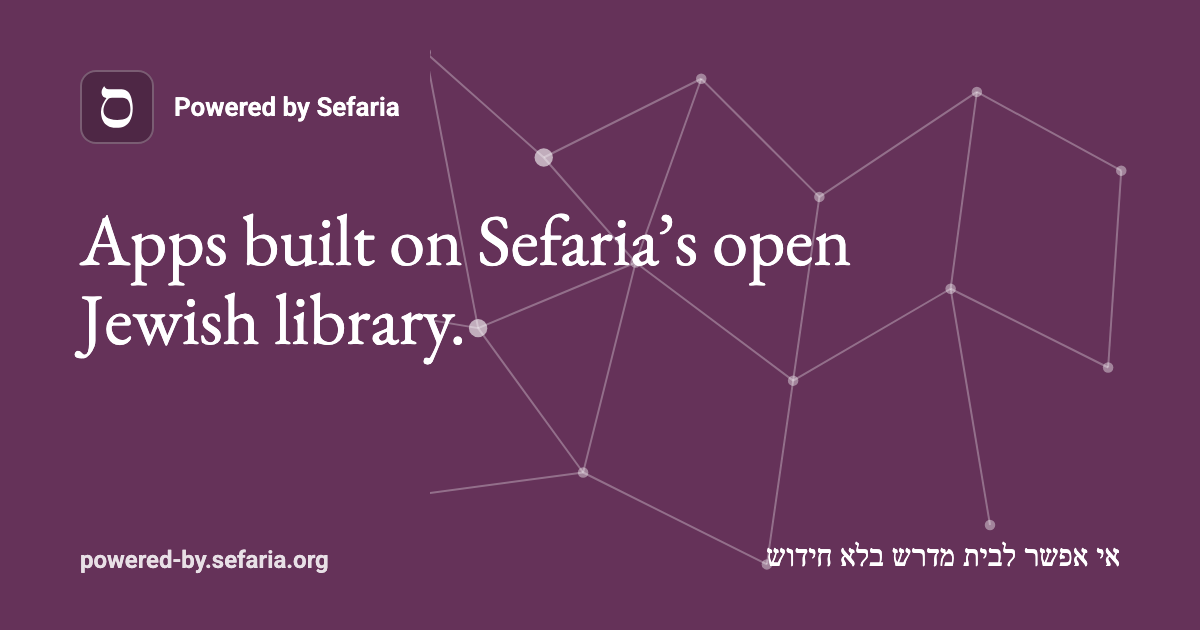
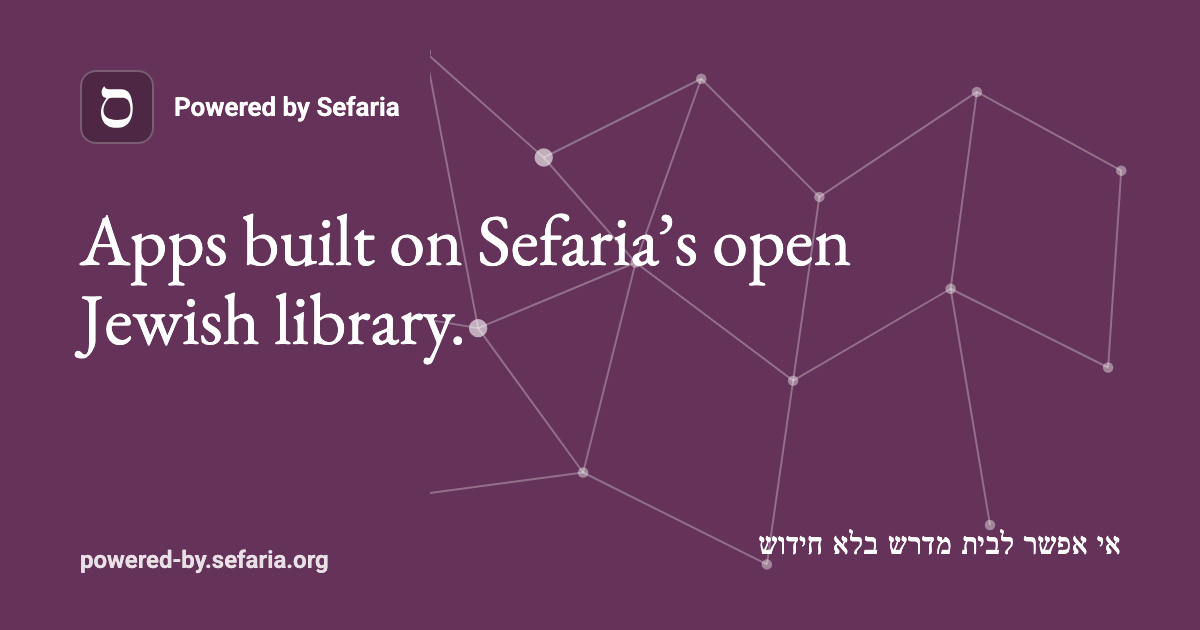
fix: address second Copilot review on the project-pages PR
- count a project page view once, after its slug is canonical (not for /projects/141
  and again for /projects/141-name)
- treat /Charts and /CHARTS like /charts, as the router does, so they are never counted
- stop the featured card's "Made with" tag from swallowing clicks (clip-path stacking context)
- embed the Hebrew font in the OG image script as a data URL; regenerate og-image.png
- e2e: scroll instantly, so smooth scrolling can't race the geometry assertions

Tests added for each; the featured-card click test fails without the CSS fix.

Changed region(s): [[0.6167, 0.8444, 0.9558, 0.9048]]

diff --git a/src/app/__tests__/RouteEffects.test.tsx b/src/app/__tests__/RouteEffects.test.tsx
@@ -1,0 +1,77 @@
+import { render, screen } from '@testing-library/react'
+import { MemoryRouter, Route, Routes } from 'react-router'
+import { afterEach, beforeEach, describe, expect, it, vi } from 'vitest'
+import { resetProjectsCache } from '../../hooks/useProjects'
+import { initAnalytics, resetAnalytics } from '../../lib/analytics'
+import { makeRaw } from '../../test/factories'
+import { ProjectPage } from '../../features/project-page/ProjectPage'
+import { RouteEffects } from '../RouteEffects'
+
+const plausible = vi.fn()
+const pageviews = () => plausible.mock.calls.filter(([event]) => event === 'pageview')
+
+function renderAt(path: string) {
+  return render(
+    <MemoryRouter initialEntries={[path]}>
+      <Routes>
+        <Route path="/" element={<p>Browse page</p>} />
+        <Route path="/charts" element={<p>Charts page</p>} />
+        <Route path="/projects/:slug" element={<ProjectPage />} />
+      </Routes>
+      <RouteEffects />
+    </MemoryRouter>,
+  )
+}
+
+beforeEach(() => {
+  resetProjectsCache()
+  vi.stubEnv('VITE_ANALYTICS_DOMAIN', 'powered-by.sefaria.org')
+  resetAnalytics()
+  plausible.mockReset()
+  window.plausible = plausible
+  initAnalytics()
+  vi.stubGlobal(
+    'fetch',
+    vi
+      .fn()
+      .mockImplementation(() =>
+        Promise.resolve(
+          new Response(
+            JSON.stringify({ projects: [makeRaw({ id: 141, project_name: 'Torah MCP' })] }),
+          ),
+        ),
+      ),
+  )
+})
+
+afterEach(() => {
+  vi.unstubAllEnvs()
+  vi.unstubAllGlobals()
+  resetAnalytics()
+  delete window.plausible
+  document.head.querySelectorAll('script[data-domain]').forEach((s) => s.remove())
+})
+
+describe('page views', () => {
+  it('counts the browse page once, and never the charts page, whatever its case', async () => {
+    renderAt('/')
+    expect(await screen.findByText('Browse page')).toBeInTheDocument()
+    expect(pageviews()).toHaveLength(1)
+    plausible.mockReset()
+    renderAt('/charts')
+    await screen.findByText('Charts page')
+    expect(pageviews()).toHaveLength(0)
+  })
+
+  it('counts a project page once, not before its slug is canonical', async () => {
+    renderAt('/projects/141')
+    expect(await screen.findByRole('heading', { level: 1, name: 'Torah MCP' })).toBeInTheDocument()
+    expect(pageviews()).toHaveLength(1)
+  })
+
+  it('counts a stale slug once, only after it has been replaced', async () => {
+    renderAt('/projects/141-an-old-name')
+    expect(await screen.findByRole('heading', { level: 1, name: 'Torah MCP' })).toBeInTheDocument()
+    expect(pageviews()).toHaveLength(1)
+  })
+})

diff --git a/e2e/project-page.spec.ts b/e2e/project-page.spec.ts
@@ -60,7 +60,7 @@ for (const { width, layout } of WIDTHS) {
         expect(panelBox!.x).toBeGreaterThan(width / 2)
         expect(panelBox!.width).toBeCloseTo(360, 0)
         expect(openBox!.height).toBeCloseTo(52, 0)
-        await page.evaluate(() => window.scrollTo(0, 300))
+        await page.evaluate(() => window.scrollTo({ top: 300, behavior: 'instant' }))
         // still in view after scrolling: it follows the page
         const after = await panel.boundingBox()
         expect(after!.y).toBeCloseTo(24, 0)
@@ -90,7 +90,9 @@ for (const { width, layout } of WIDTHS) {
       test('the bottom bar never covers the last of the details', async ({ page }) => {
         await page.goto(`/projects/${PROJECTS.torahMcp}`)
         await expect(page.getByRole('heading', { level: 1 })).toBeVisible()
-        await page.evaluate(() => window.scrollTo(0, document.body.scrollHeight))
+        await page.evaluate(() =>
+          window.scrollTo({ top: document.body.scrollHeight, behavior: 'instant' }),
+        )
         const details = page.locator('section[aria-labelledby="details-heading"]')
         await expect(details).toBeVisible()
         const [detailsBox, barBox] = [await details.boundingBox(), await cta(page).boundingBox()]

diff --git a/e2e/featured.spec.ts b/e2e/featured.spec.ts
@@ -27,6 +27,20 @@ test.describe('featured band', () => {
     await expect(band(page)).toHaveCount(0)
   })
 
+  test('clicking the "Made with" tag opens the project like the rest of the card', async ({
+    page,
+  }) => {
+    await serveProjects(page, featureThree)
+    await page.goto('/')
+    await waitForProjects(page)
+    // by coordinates, as a person would: the tag itself no longer takes pointer events
+    const label = band(page).getByText('Made with').first()
+    await label.scrollIntoViewIfNeeded()
+    const tag = (await label.boundingBox())!
+    await page.mouse.click(tag.x + tag.width / 2, tag.y + tag.height / 2)
+    await expect(page).toHaveURL(/\/projects\/\d+-/)
+  })
+
   test('shows up to 3 featured projects, newest first, between the hero and browse area', async ({
     page,
   }) => {

diff --git a/src/features/project-page/ProjectPage.tsx b/src/features/project-page/ProjectPage.tsx
@@ -1,5 +1,6 @@
 import { useEffect, useRef } from 'react'
 import { Link, Navigate, useLocation, useNavigationType, useParams } from 'react-router'
+import { trackPageview } from '../../lib/analytics'
 import { canonicalPath, parseSlug } from '../../lib/slug'
 import { MEDIA_SM, useMediaQuery } from '../../hooks/useMediaQuery'
 import { useDocumentMeta } from '../../hooks/useDocumentMeta'
@@ -117,6 +118,11 @@ function ProjectView({
   useEffect(() => {
     if (navigated) headingRef.current?.focus({ preventScroll: true })
   }, [navigated, project.id])
+
+  const redirecting = canonical !== null
+  useEffect(() => {
+    if (!redirecting) trackPageview(location.pathname)
+  }, [redirecting, location.pathname])
 
   if (canonical) return <Navigate to={canonical} replace state={location.state} />
 

diff --git a/src/app/RouteEffects.tsx b/src/app/RouteEffects.tsx
@@ -8,8 +8,10 @@ export function RouteEffects() {
   const { pathname } = useLocation()
   const [announcement, setAnnouncement] = useState('')
 
+  // Project pages report their own, once the slug is canonical: /projects/141 would otherwise be
+  // counted, and then counted again when it is replaced with /projects/141-torah-mcp.
   useEffect(() => {
-    trackPageview(pathname)
+    if (!pathname.startsWith('/projects/')) trackPageview(pathname)
   }, [pathname])
 
   // Pages set document.title as they load (some lazily), so announce whenever it changes

diff --git a/src/lib/__tests__/analytics.test.ts b/src/lib/__tests__/analytics.test.ts
@@ -81,6 +81,9 @@ describe('analytics', () => {
     vi.stubEnv('VITE_ANALYTICS_DOMAIN', 'powered-by.sefaria.org')
     initAnalytics()
     trackPageview('/charts')
+    // the router matches case-insensitively, so these are the charts page too
+    trackPageview('/Charts')
+    trackPageview('/CHARTS/')
     expect(plausible).not.toHaveBeenCalled()
     trackPageview('/projects/1-x')
     expect(plausible).toHaveBeenCalledWith('pageview', {

diff --git a/src/lib/analytics.ts b/src/lib/analytics.ts
@@ -94,7 +94,8 @@ export function track<E extends keyof AnalyticsEvents>(event: E, props: Analytic
 
 /** SPA page view. The charts page is never counted. */
 export function trackPageview(pathname: string) {
-  if (pathname === '/charts' || pathname.startsWith('/charts/')) return
+  const path = pathname.toLowerCase() // the router matches /Charts too
+  if (path === '/charts' || path.startsWith('/charts/')) return
   send('pageview')
 }
 

diff --git a/src/features/featured/FeaturedCard.module.css b/src/features/featured/FeaturedCard.module.css
@@ -133,6 +133,8 @@
   box-shadow: inset 0 0 0 1px var(--border-default);
   clip-path: polygon(10px 0, 100% 0, 100% 100%, 10px 100%, 0 50%);
   font-size: 14px;
+  /* clip-path makes a stacking context above the title's stretched link: let clicks fall through. */
+  pointer-events: none;
 }
 
 .madeWithLabel {
